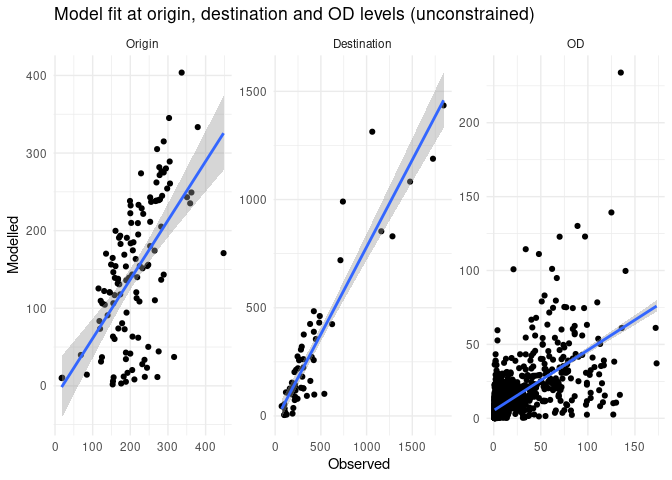
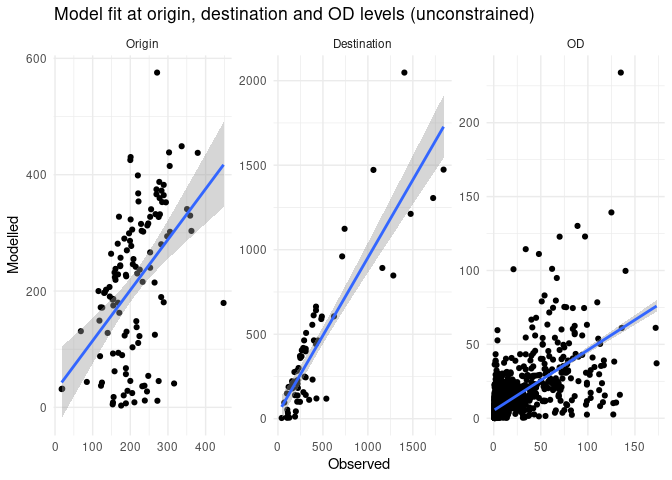
Fix issue due to inner vs left join

diff --git a/README.md b/README.md
@@ -138,7 +138,7 @@ level.
 
 ![](README_files/figure-commonmark/r-squared-1.png)
 
-The R-squared value is 0.401.
+The R-squared value is NA.
 
 Let’s see if making the model production constrained can help:
 
@@ -156,4 +156,4 @@ od_res_constrained = simodels::si_calculate(
 
 ![](README_files/figure-commonmark/r-squared-constrained-1.png)
 
-The R-squared value is 0.57.
+The R-squared value is NA.
